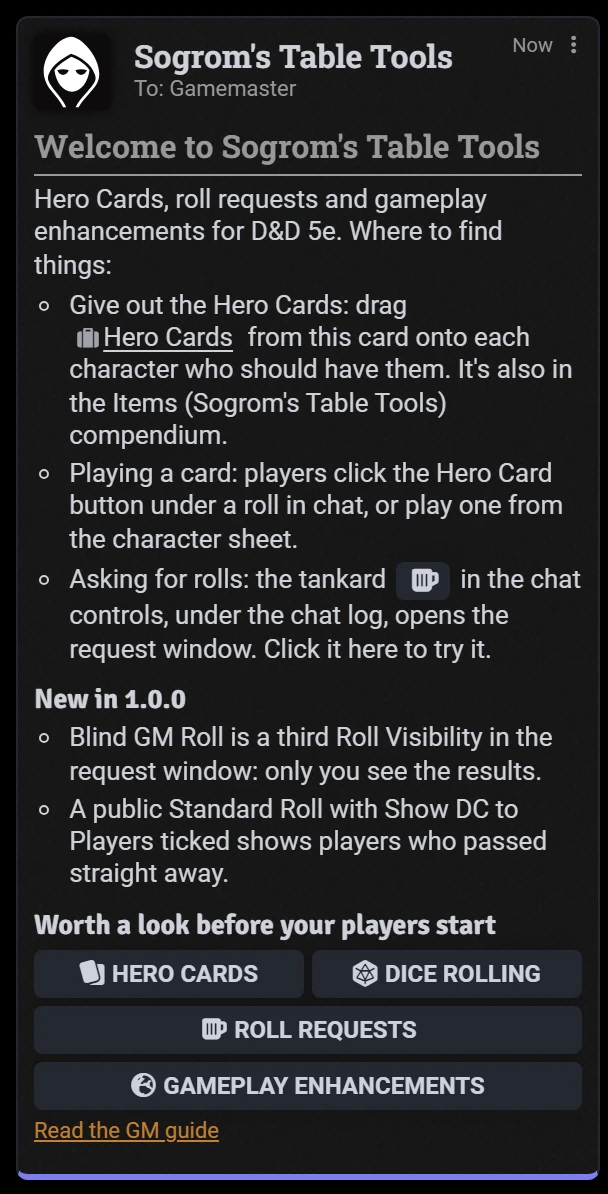
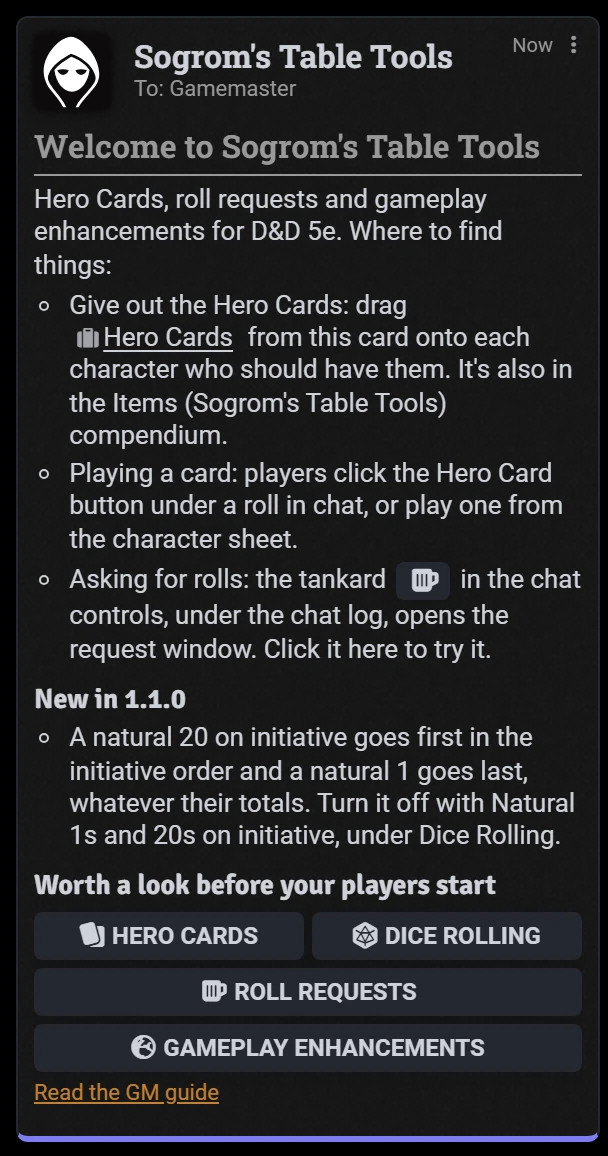
Screenshots for natural 1s and 20s on initiative

Changed region(s): [[0.0312, 0.0311, 0.9688, 0.9654], [0.8438, 0.0311, 0.9062, 0.0623]]

diff --git a/docs/gm.md b/docs/gm.md
@@ -36,7 +36,7 @@ tankard to open the request window. After an update that adds features, you get 
 A patch release says nothing. Turn the cards off with **Welcome and What's New Cards**, under
 [Gameplay Enhancements](#gameplay-enhancements).
 
-<img src="images/gm-welcome.webp" alt="The welcome card: where to find things, with a Hero Cards link and a tankard button, what's new in 1.0.0, and buttons for Hero Cards, Dice Rolling, Roll Requests and Gameplay Enhancements" width="300">
+<img src="images/gm-welcome.webp" alt="The welcome card: where to find things, with a Hero Cards link and a tankard button, what's new in 1.1.0, and buttons for Hero Cards, Dice Rolling, Roll Requests and Gameplay Enhancements" width="300">
 
 The compendiums sit in a **Sogrom's Table Tools** folder in the Compendium sidebar. Players can view them.
 

diff --git a/docs/player.md b/docs/player.md
@@ -103,6 +103,8 @@ By default:
 - On initiative, a natural 20 puts you first in the initiative order and a natural 1 puts you last, whatever your
   total.
 
+<img src="images/initiative-naturals.webp" alt="The combat tracker: Aria first with a natural 20 in gold, above Borin's higher total, and the Goblin last with a natural 1 in red" width="300">
+
 Your GM can customise these rules, so the exact behaviour at your table may differ.
 
 ## Adding another feature's die to a roll
